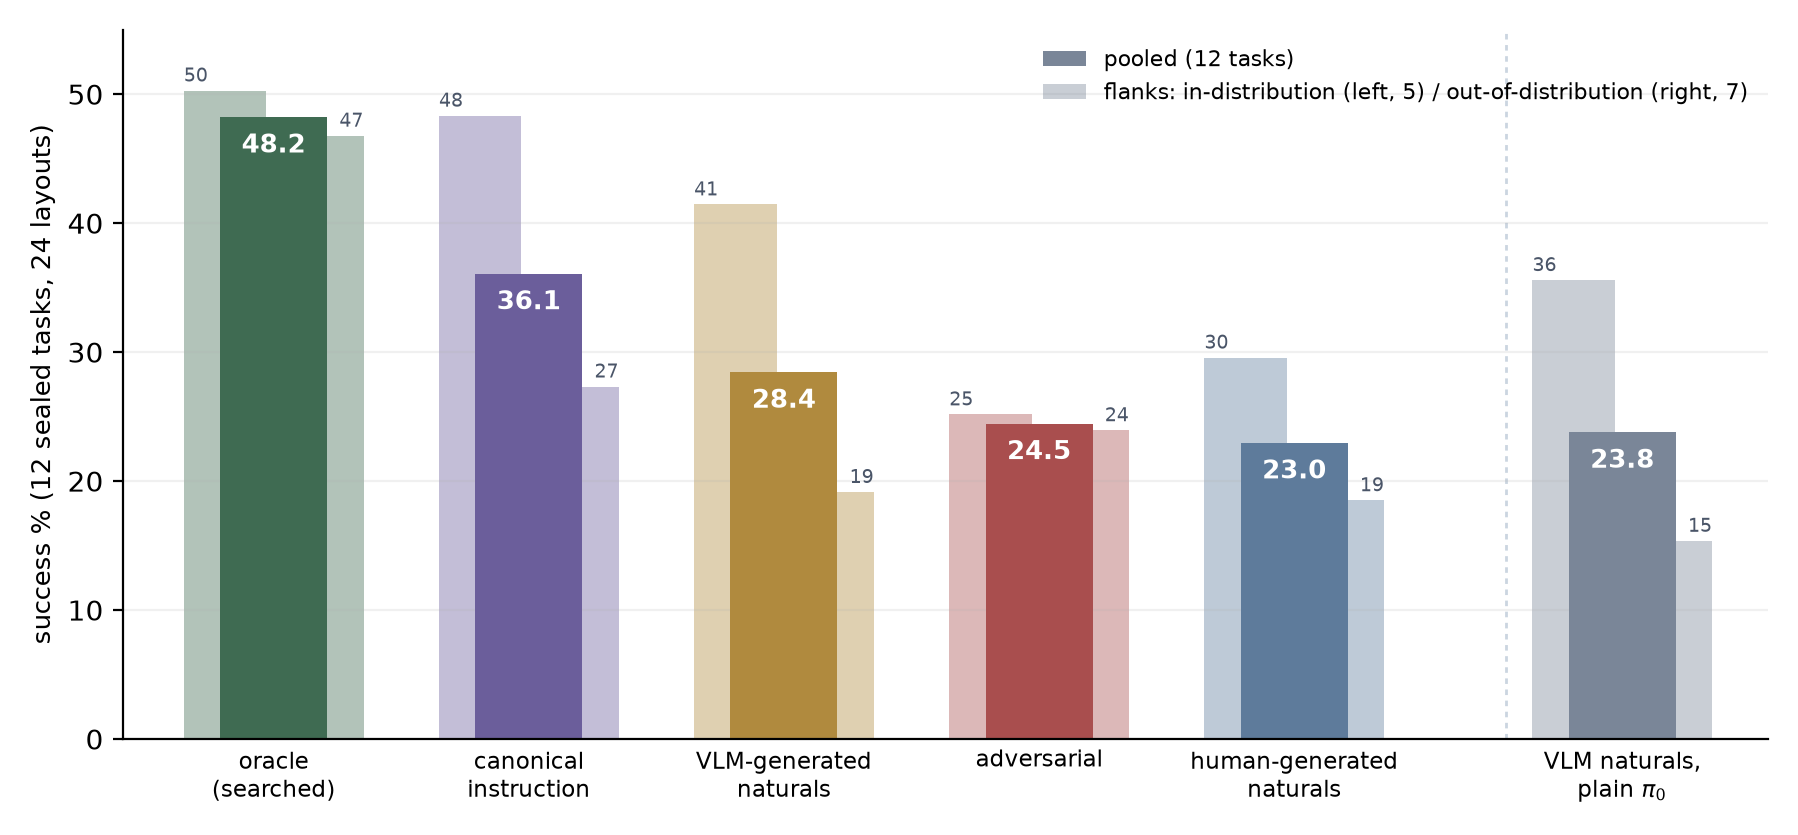
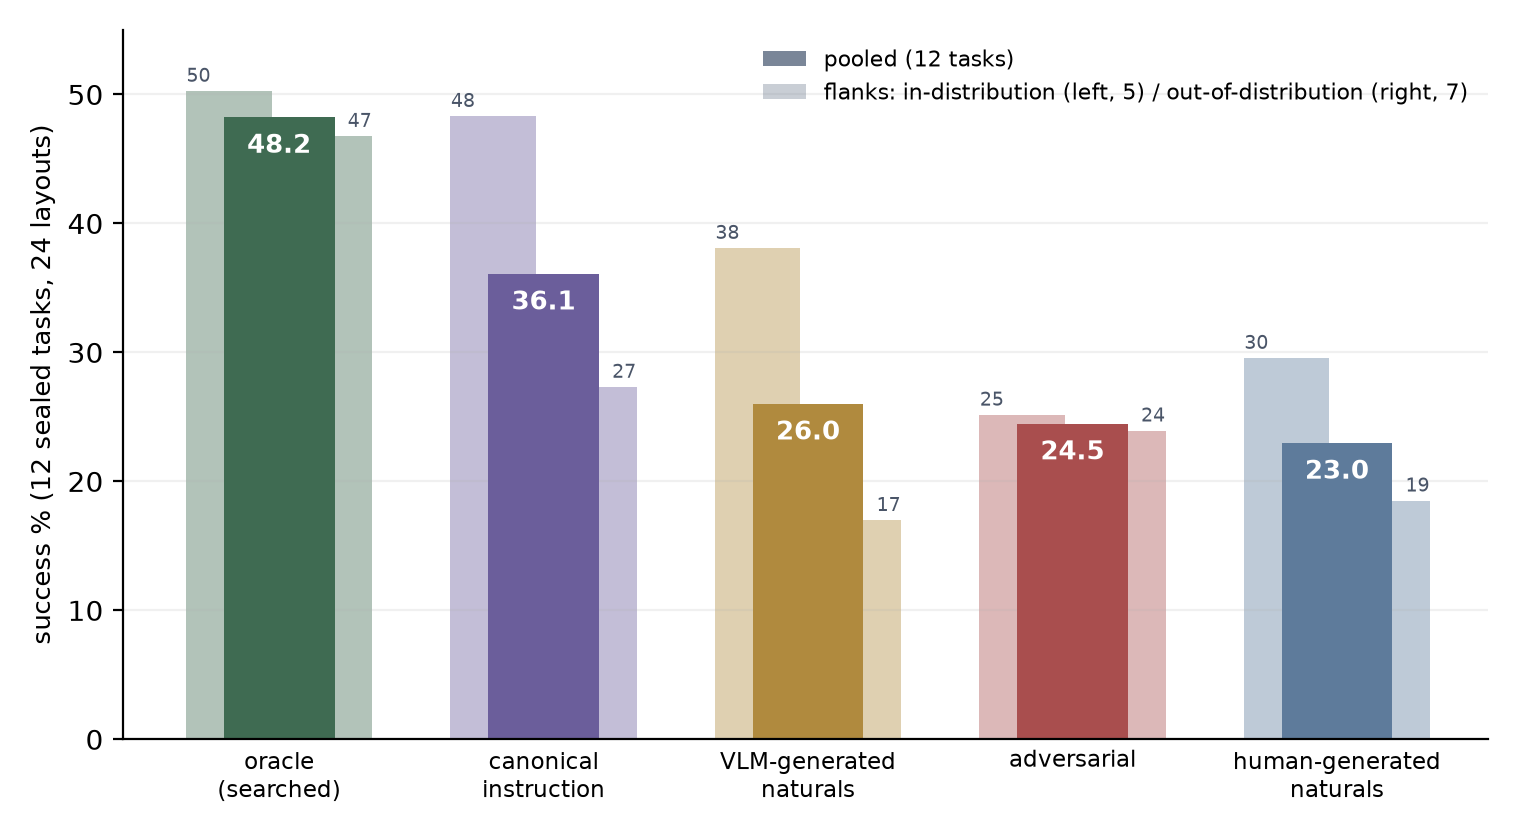
Compact dashboard into paper; draws table; fourtier single-panel reorder; conditions chart prose-note variant

diff --git a/scripts/make_paper_fourtier.py b/scripts/make_paper_fourtier.py
@@ -1,13 +1,10 @@
 #!/usr/bin/env python3
 """results/charts/paper_fourtier.png -- paper figure for the pi0.5/LIBERO
-four-tier eval. Panel (a): phrasing tiers pooled by finetune membership
-(Wilson 95%). Panel (b): the over-finetuning exhibit -- each finetuned
-instruction string shown in its training scene, in a novel scene, and next to
-rephrasings evaluated in that same novel scene.
+four-tier eval: phrasing tiers pooled by finetune membership (Wilson 95%),
+bars ordered by height (oracle leftmost). Single panel, no in-image title.
 
   .venv/bin/python scripts/make_paper_fourtier.py
 """
-import glob
 import json
 import math
 import pathlib
@@ -15,19 +12,8 @@ import pathlib
 import matplotlib
 matplotlib.use("Agg")
 import matplotlib.pyplot as plt
-import pandas as pd
 
 ROOT = pathlib.Path(__file__).resolve().parents[1]
-rows = []
-for f in glob.glob(str(ROOT / "results/analysis/fourtier_live/fourtier_*.jsonl")):
-    for line in open(f):
-        line = line.strip()
-        if line:
-            try:
-                rows.append(json.loads(line))
-            except json.JSONDecodeError:
-                pass
-df = pd.DataFrame(rows).drop_duplicates(subset=["suite", "task_id", "phrase", "init"], keep="last")
 S = json.load(open(ROOT / "results/analysis/fourtier_summary.json"))
 
 C = {"original": "#6B5E9B", "natural": "#B08A3E", "adversarial": "#A94E4E",
@@ -42,16 +28,16 @@ def wl(k, n, z=1.96):
     return p, max(0, c - h), min(1, c + h)
 
 
-fig, (a, b) = plt.subplots(1, 2, figsize=(12.6, 4.4), gridspec_kw={"width_ratios": [1.15, 1.0]})
+fig, a = plt.subplots(figsize=(7.0, 4.4))
 plt.rcParams["font.family"] = "sans-serif"
 
 # ---------- (a) tiers by finetune membership --------------------------------
 groups = [("in-finetune tasks\n(libero_goal, 10)", "goal_in_finetune"),
           ("out-of-finetune tasks\n(libero_90, 18)", "l90_clean")]
-tiers = ["orig", "natural", "adversarial", "oracle_confirm"]
-tier_labels = ["original\ninstruction", "natural\nrephrasings", "adversarial\nrephrasings",
-               "oracle\n(searched)"]
-tier_colors = [C["original"], C["natural"], C["adversarial"], C["oracle"]]
+tiers = ["oracle_confirm", "orig", "natural", "adversarial"]
+tier_labels = ["oracle\n(searched)", "original\ninstruction", "natural\nrephrasings",
+               "adversarial\nrephrasings"]
+tier_colors = [C["oracle"], C["original"], C["natural"], C["adversarial"]]
 W, GAP = 0.8, 1.1
 x = 0.0
 xt, xl = [], []
@@ -87,57 +73,8 @@ a.legend(handles=[plt.Rectangle((0, 0), 1, 1, color=c) for c in tier_colors],
          labels=[t.replace("\n", " ") for t in tier_labels], fontsize=8.3,
          loc="lower center", bbox_to_anchor=(0.5, 1.055), frameon=False, ncol=4,
          columnspacing=1.1, handlelength=1.2, handletextpad=0.5)
-a.set_title("(a)", loc="left", fontsize=11.5, pad=30)
-a.text(2.0, 40.5, "$-$50 pp", fontsize=8.6, color="white",
+a.text(3.0, 40.5, "$-$50 pp", fontsize=8.6, color="white",
        fontstyle="italic", ha="center", va="top", zorder=5)
-
-# ---------- (b) the over-finetuning exhibit ---------------------------------
-g7 = df[(df.suite == "libero_goal") & (df.task_id == 7) & (df.phrase == "turn on the stove")]
-l44 = df[(df.suite == "libero_90") & (df.task_id == 44)]
-l44c = l44[l44.phrase == "turn on the stove"]
-l44r = l44[(l44.arm.str.startswith("nat")) | (l44.arm.str.startswith("adv"))]
-BOOK = "pick up the book and place it in the back compartment of the caddy"
-l10 = df[(df.suite == "libero_10") & (df.phrase == BOOK)]
-l77 = df[(df.suite == "libero_90") & (df.task_id == 77)]
-l77c = l77[l77.phrase == BOOK]
-l77r = l77[(l77.arm.str.startswith("nat")) | (l77.arm.str.startswith("adv"))]
-
-pairs = [('finetuned string 1:\n"turn on the stove"', g7, l44c, l44r),
-         ('finetuned string 2:\n"pick up the book and place it\nin the back compartment ..."', l10, l77c, l77r)]
-x = 0.0
-xt, xl = [], []
-for label, tr, nv, rp in pairs:
-    cells = [(tr, C["original"], "trained\nscene", False),
-             (nv, C["original"], "novel\nscene", True),
-             (rp, C["reph"], "rephrasings,\nnovel scene", False)]
-    gx = []
-    for gdat, color, clabel, hatch in cells:
-        k, n = int(gdat.success.sum()), len(gdat)
-        p, lo, hi = wl(k, n)
-        a2 = b.bar(x, p * 100, W, color=color, zorder=3,
-                   hatch="///" if hatch else None,
-                   edgecolor="white" if hatch else color, lw=0.0)
-        b.errorbar(x, p * 100, yerr=[[100 * max(0, p - lo)], [100 * max(0, hi - p)]],
-                   color="#1a202c", lw=1.1, capsize=2.5, zorder=4)
-        b.text(x, max(p, hi) * 100 + 3.5, "%.0f" % (p * 100), ha="center", fontsize=10,
-               fontweight="bold", color=color)
-        b.text(x, -7, clabel + "\nn=%d" % n, ha="center", va="top", fontsize=8.2,
-               color="#374151")
-        gx.append(x)
-        x += 1.0
-    xt.append(sum(gx) / len(gx))
-    xl.append(label)
-    x += GAP
-for xc, lab in zip(xt, xl):
-    b.text(xc, -33, lab, ha="center", va="top", fontsize=9, color="#111827")
-b.set_xticks([])
-b.set_ylim(0, 112)
-b.set_yticks(range(0, 101, 25))
-b.set_ylabel("rollout success (%)", fontsize=11)
-b.spines["top"].set_visible(False)
-b.spines["right"].set_visible(False)
-b.grid(alpha=0.2, axis="y", zorder=0)
-b.set_title("(b)", loc="left", fontsize=11.5, pad=30)
 
 fig.tight_layout()
 out = ROOT / "results/charts/paper_fourtier.png"

diff --git a/paper/main.tex b/paper/main.tex
@@ -120,7 +120,7 @@ executor parses reliably, and edits the instruction accordingly.
 
 \section{Setup}
 
-Throughout, we work with two modern VLAs: $\pi_0$ and $\pi_{0.5}$. All of our $\pi_0$ experiments are conducted on the Bridge dataset, and all of our $\pi_{0.5}$ experiments are conducted on the LIBERO dataset. The specific versions of our models are finetuned for their respective datasets and are inherited from prior works. Moreover, the finetuned version of $\pi_0$ that we use is explicitly trained on rephrases of each task in order to reduce its language-sensitivity. That is, in the case of $\pi_0$, we are already working with a model that's been developed to some extent to mitigate the issue of language-sensitivity, and in this work we seek to further explore what remains of its language sensitivity.
+Throughout, we work with two modern VLAs: $\pi_0$ and $\pi_{0.5}$. All of our $\pi_0$ experiments are conducted on the Bridge dataset, and all of our $\pi_{0.5}$ experiments are conducted on the LIBERO dataset. The specific versions of our models are finetuned for their respective datasets and are inherited from prior works. Moreover, the finetuned version of $\pi_0$ that we use is explicitly trained on rephrases of each task in order to reduce its language-sensitivity. That is, in the case of $\pi_0$, we are already working with a model that's been developed to some extent to mitigate the issue of language-sensitivity, and in this work we seek to further explore what remains of its language sensitivity. In our own tests, the rephrase augmentation is worth a 20\% relative improvement on natural rephrasings (28.4\% vs 23.8\% pooled success on a 192-phrase natural-rephrase set, against the otherwise-identical non-augmented checkpoint); we seek to further improve robustness with rules.
 
 In our experiments, we measure the success of these VLAs in simulation. In determining success, there's a design choice to be made: at which frame in the episode should success be measured? For Bridge's simulation (SIMPLER) tasks, we measure success at the 60th frame of a trajectory, defaulting to the benchmark's default.
 
@@ -261,20 +261,20 @@ Our best-performing rulebook type is consistently the out-of-finetune rulebook (
     \centering
     \includegraphics[width=\textwidth]{figures/rules_dashboard.png}
     \caption{Evaluating rulebooks across models. Base-weighted success on
-    the 12 sealed tasks, by condition (columns: adversarial,
-    human-generated naturals, LLM-generated naturals). Rows: by applier
-    (bars = mean over the three independent rulebook draws); by rulebook
-    draw (bars = mean over appliers); the in-vocab stratum (5 tasks); the
-    out-of-vocab stratum (7 tasks). Within each applier group the three
-    green bars are the rulebook evidence diets: out-of-finetune (distilled
-    from rollout evidence), in-finetune (distilled from finetune-corpus
-    evidence), and both combined. Dashed red line = the un-rephrased
-    baseline; dashed grey line = the no-rules scaffold mean. Grey bars =
-    the no-rules rephraser scaffold, green bars = rulebook cells.
-    Adversarial = 72 attacks ($\times$2 reps); human-generated naturals =
-    the 392 collected phrases, 363 unique task / phrase pairs ($\times$1); LLM-generated naturals =
-    the 186-phrase image-conditioned set ($\times$1); strata from the
-    ex-ante vocabulary audit.}
+    the 12 sealed tasks, by condition (panels: adversarial,
+    human-generated naturals, LLM-generated naturals). Within each applier
+    group: the no-rules rephraser scaffold (grey) and the three rulebook
+    evidence diets (green; each bar the mean over three independent
+    distillation draws) --- out-of-finetune (distilled from rollout
+    evidence), both combined, and in-finetune (distilled from
+    finetune-corpus evidence). The thin flanking bars split each cell into
+    the in-distribution (left, 5 tasks) and out-of-distribution (right, 7
+    tasks) strata from the ex-ante vocabulary audit; the dashed red line
+    is the un-rephrased baseline. Adversarial = 72 attacks ($\times$2
+    reps); human-generated naturals = the 392 collected phrases, 363
+    unique task / phrase pairs ($\times$1); LLM-generated naturals = the
+    186-phrase image-conditioned set ($\times$1). Per-draw results appear
+    in Appendix~\ref{app:draws}.}
     \label{fig:dashboard}
 \end{figure*}
 
@@ -344,6 +344,25 @@ The rulebook itself is substituted for the \texttt{\{\{rules\}\}} slot;
 rulebooks are available in the project
 repository (\url{https://github.com/sttawm/phrase-rl/tree/main/paper/rules}).
 \lstinputlisting{appendix/prompt_apply_rules.txt}
+
+
+\section{Rulebook Draws}
+\label{app:draws}
+
+Table~\ref{tab:draws} reports each independent distillation draw
+separately: success \% on the sealed set, pooled over the three appliers
+--- the per-draw view behind the draw-averaged cells of
+Fig.~\ref{fig:dashboard}.
+
+\begin{table}[!t]
+    \caption{Success \% by evidence diet and rulebook draw, pooled over
+    the three appliers.}
+    \label{tab:draws}
+    \centering
+    \footnotesize
+    \setlength{\tabcolsep}{5pt}
+    \input{figures/draws_tab}
+\end{table}
 
 
 \section{The Original Condition}

diff --git a/scripts/make_pi0_conditions.py b/scripts/make_pi0_conditions.py
@@ -1,12 +1,10 @@
 #!/usr/bin/env python3
-"""pi0 input-condition chart, CURRENT sealed data. Main sequence (executor =
-rephrase-augmented INTACT pi0): oracle / canonical / VLM-generated naturals
-(the K=16 robustness set, 192 phrases — NOT the 186-phrase main-eval set;
-caption footnote covers this) / adversarial / human-generated naturals on the
-12 sealed tasks x 24 pinned layouts. Right of the divider: the same K=16
-naturals passed through the PLAIN executor (INTACT-pi0-finetune-bridge, no
-rephrase augmentation; Amendments 19/24, 24 layouts x 1 rep) — the only
-condition ever rolled on that checkpoint. Pooled bar solid in
+"""pi0 input-condition chart, CURRENT sealed data. Executor = rephrase-augmented
+INTACT pi0 throughout: oracle / canonical / VLM-generated naturals (the
+186-phrase main-eval set) / adversarial / human-generated naturals on the 12
+sealed tasks x 24 pinned layouts. The non-augmented comparison lives in prose
+(Setup): +20% relative on the K=16 natural set (28.4 vs 23.8), computed by
+k16() below from rephrase_robustness.jsonl. Pooled bar solid in
 front (white value); in-distribution (5 tasks) / out-of-distribution (7)
 strata behind, thinner and semi-transparent. No in-image title.
 
@@ -14,6 +12,7 @@ Provenance (verified 2026-09-13, base-weighted):
   oracle      48.2 / 50.3 / 46.8   results/sealed/oracle_confirmed_x12.parquet (24x12)
   canonical   36.1 / 48.3 / 27.3   anchors_x12 originals (24x12)
   adversarial 24.5 / 25.2 / 23.9   a29pass legs + anchors passthrough (72 attacks)
+  vlm nat     26.0 / 38.1 / 17.0   r1_cells.json noreph|nat (186 phrases, 24x1)
   human nat   23.0 / 29.6 / 18.5   a39_human_cells.json raw_human (363 pairs, 24x1)
   K16 pair    from rephrase_robustness.jsonl (both layout halves; 16/task
               balanced so task-weighted == base-weighted)
@@ -26,6 +25,7 @@ matplotlib.use("Agg")
 import matplotlib.pyplot as plt
 
 R = pathlib.Path(__file__).resolve().parents[1]
+nr = json.loads((R / "results/analysis/r1_cells.json").read_text())["noreph|nat"]
 hm = json.loads((R / "results/analysis/a39_human_cells.json").read_text())["raw_human"]
 rr = {r["arm"]: r for r in map(json.loads,
       open(R / "results/analysis/rephrase_robustness.jsonl"))}
@@ -50,15 +50,13 @@ C_PLAIN, INK = "#7A8698", "#2d3748"
 MAIN = [
     ("oracle\n(searched)",        (48.23, 50.28, 46.78), C_ORACLE),
     ("canonical\ninstruction",    (36.08, 48.33, 27.33), C_CANON),
-    ("VLM-generated\nnaturals",   k16("pi0rephrase"), C_NAT),
+    ("VLM-generated\nnaturals",   (nr["pooled"], nr["iv"], nr["oov"]), C_NAT),
     ("adversarial",               (24.46, 25.17, 23.94), C_ADV),
     ("human-generated\nnaturals", (hm["pooled"], hm["iv"], hm["oov"]), C_HUM),
 ]
-PAIR = [
-    ("VLM naturals,\nplain $\\pi_0$",      k16("pi0base"),     C_PLAIN),
-]
+K16 = {e: k16(e) for e in ("pi0rephrase", "pi0base")}   # prose numbers
 
-fig, ax = plt.subplots(figsize=(9.0, 4.2))
+fig, ax = plt.subplots(figsize=(7.6, 4.2))
 
 
 def cluster(x, pool, iv, oov, col):
@@ -78,12 +76,9 @@ x, ticks, labels = 0.0, [], []
 for name, (pool, iv, oov), col in MAIN:
     cluster(x, pool, iv, oov, col)
     ticks.append(x); labels.append(name); x += 1.05
-div = x - 0.18
-ax.axvline(div, color="#cbd5e0", lw=1.0, ls=(0, (2, 2)), zorder=0)
-x += 0.30
-for name, (pool, iv, oov), col in PAIR:
-    cluster(x, pool, iv, oov, col)
-    ticks.append(x); labels.append(name); x += 1.05
+print("k16 augmented %.2f / plain %.2f -> %+.1f%% relative" % (
+    K16["pi0rephrase"][0], K16["pi0base"][0],
+    100 * (K16["pi0rephrase"][0] / K16["pi0base"][0] - 1)))
 
 ax.set_xticks(ticks)
 ax.set_xticklabels(labels, fontsize=8.4)

diff --git a/scripts/make_draws_table.py b/scripts/make_draws_table.py
@@ -1,0 +1,51 @@
+#!/usr/bin/env python3
+"""results/analysis/draws_tab.tex — per-draw rulebook grid for the paper
+appendix (the by-draw dashboard row, as a table). Success %, pooled over the
+three appliers, per evidence diet x independent distillation draw x
+condition. Data: r1_cells.json / a36_cells.json / a39_human_cells.json,
+same access logic as make_rules_dashboard_compact.py."""
+import json
+import pathlib
+
+R = pathlib.Path(__file__).resolve().parents[1]
+r1 = json.loads((R / "results/analysis/r1_cells.json").read_text())
+rep = json.loads((R / "results/analysis/a36_cells.json").read_text())
+hum = json.loads((R / "results/analysis/a39_human_cells.json").read_text())
+
+APS = ["claude", "gemini", "qwen"]
+DIETS = [("s", "out-of-finetune"), ("b", "both"), ("t", "in-finetune")]
+CONDS = ["adv", "hum", "nat"]
+HUM_BOOK = {("s", 1): "s", ("s", 2): "s2", ("s", 3): "s3",
+            ("b", 1): "b", ("b", 2): "b2", ("b", 3): "b3",
+            ("t", 1): "t", ("t", 2): "t2", ("t", 3): "t3"}
+
+
+def rec(cond, diet, ap, dr):
+    if cond == "hum":
+        return hum.get(f"{HUM_BOOK[(diet, dr)]}|{ap}")
+    if dr == 1:
+        return r1.get(f"r1{diet}|{ap}|{cond}")
+    r = rep.get(f"{diet}{dr}|{ap}|{cond}")
+    return r if (r and r.get("legs") == 12) else None
+
+
+def cell(cond, diet, dr):
+    vals = [rec(cond, diet, ap, dr)["pooled"] for ap in APS
+            if rec(cond, diet, ap, dr)]
+    return sum(vals) / len(vals)
+
+
+lines = ["\\begin{tabular}{@{}llccc@{}}", "\\toprule",
+         " & & Adversarial & Human-Generated & LLM-Generated \\\\",
+         " & & & Naturals & Naturals \\\\"]
+for diet, dlabel in DIETS:
+    lines.append("\\midrule")
+    for dr in (1, 2, 3):
+        lead = dlabel if dr == 1 else ""
+        row = " & ".join(f"{cell(c, diet, dr):.1f}" for c in CONDS)
+        lines.append(f"{lead} & rulebook-{dr} & {row} \\\\")
+lines += ["\\bottomrule", "\\end{tabular}"]
+out = R / "results/analysis/draws_tab.tex"
+out.write_text("\n".join(lines) + "\n")
+print("tex ->", out)
+print("\n".join(lines))

diff --git a/paper/figures/draws_tab.tex b/paper/figures/draws_tab.tex
@@ -1,0 +1,18 @@
+\begin{tabular}{@{}llccc@{}}
+\toprule
+ & & Adversarial & Human-Generated & LLM-Generated \\
+ & & & Naturals & Naturals \\
+\midrule
+out-of-finetune & rulebook-1 & 29.8 & 27.0 & 30.4 \\
+ & rulebook-2 & 28.6 & 27.2 & 29.3 \\
+ & rulebook-3 & 33.7 & 30.1 & 32.3 \\
+\midrule
+both & rulebook-1 & 28.6 & 25.7 & 29.3 \\
+ & rulebook-2 & 31.1 & 26.8 & 28.3 \\
+ & rulebook-3 & 28.9 & 29.6 & 31.4 \\
+\midrule
+in-finetune & rulebook-1 & 27.3 & 24.4 & 27.2 \\
+ & rulebook-2 & 25.2 & 23.7 & 26.2 \\
+ & rulebook-3 & 27.0 & 24.4 & 27.7 \\
+\bottomrule
+\end{tabular}

diff --git a/results/analysis/draws_tab.tex b/results/analysis/draws_tab.tex
@@ -1,0 +1,18 @@
+\begin{tabular}{@{}llccc@{}}
+\toprule
+ & & Adversarial & Human-Generated & LLM-Generated \\
+ & & & Naturals & Naturals \\
+\midrule
+out-of-finetune & rulebook-1 & 29.8 & 27.0 & 30.4 \\
+ & rulebook-2 & 28.6 & 27.2 & 29.3 \\
+ & rulebook-3 & 33.7 & 30.1 & 32.3 \\
+\midrule
+both & rulebook-1 & 28.6 & 25.7 & 29.3 \\
+ & rulebook-2 & 31.1 & 26.8 & 28.3 \\
+ & rulebook-3 & 28.9 & 29.6 & 31.4 \\
+\midrule
+in-finetune & rulebook-1 & 27.3 & 24.4 & 27.2 \\
+ & rulebook-2 & 25.2 & 23.7 & 26.2 \\
+ & rulebook-3 & 27.0 & 24.4 & 27.7 \\
+\bottomrule
+\end{tabular}
